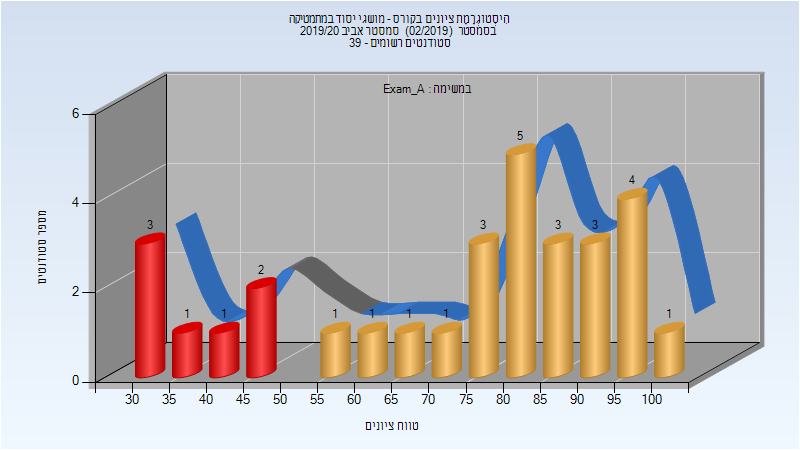
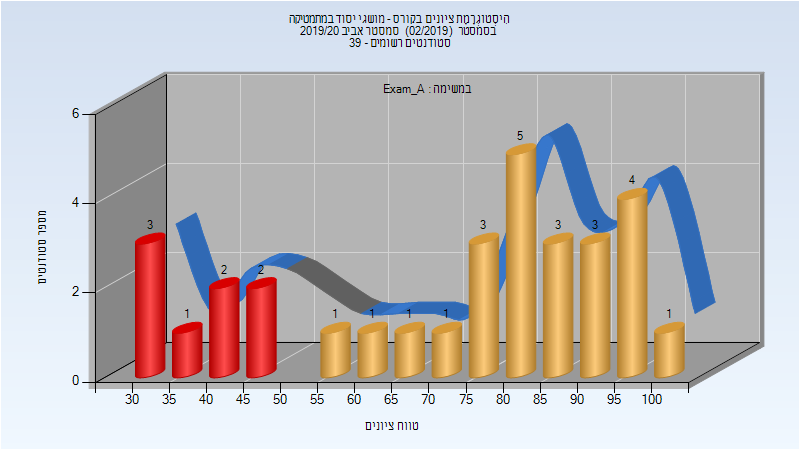
Deploy michael-maltsev/technion-histograms to github.com/michael-maltsev/technion-histograms.git:gh-pages

Changed region(s): [[0.25, 0.56, 0.4062, 0.7467]]

diff --git a/104002/index.html b/104002/index.html
@@ -209,13 +209,13 @@
 </thead>
 <tbody>
 <tr>
-<td>30</td>
-<td>23/7</td>
-<td>77</td>
+<td>31</td>
+<td>23/8</td>
+<td>74</td>
 <td>30</td>
 <td>100</td>
-<td>72.767</td>
-<td>80</td>
+<td>71.71</td>
+<td>78</td>
 </tr>
 </tbody>
 </table>
@@ -235,13 +235,13 @@
 </thead>
 <tbody>
 <tr>
-<td>30</td>
-<td>29/1</td>
-<td>97</td>
+<td>31</td>
+<td>29/2</td>
+<td>94</td>
 <td>33</td>
 <td>100</td>
-<td>78.9</td>
-<td>84</td>
+<td>78.097</td>
+<td>83</td>
 </tr>
 </tbody>
 </table>
@@ -261,13 +261,13 @@
 </thead>
 <tbody>
 <tr>
-<td>30</td>
-<td>29/1</td>
-<td>97</td>
-<td>33</td>
+<td>34</td>
+<td>31/3</td>
+<td>91</td>
+<td>9</td>
 <td>100</td>
-<td>78.9</td>
-<td>84</td>
+<td>74.765</td>
+<td>82.5</td>
 </tr>
 </tbody>
 </table>

diff --git a/104168/index.html b/104168/index.html
@@ -118,5 +118,24 @@
 </tr>
 </tbody>
 </table>
+<h2>חורף 2020-2021</h2>
+<table>
+<thead>
+<tr>
+<th>איש סגל</th>
+<th>תפקיד</th>
+</tr>
+</thead>
+<tbody>
+<tr>
+<td>חנבסקי מיכאל</td>
+<td>מרצה - אחראי מקצוע</td>
+</tr>
+<tr>
+<td>צורני אלעד</td>
+<td>מתרגל</td>
+</tr>
+</tbody>
+</table>
   </body>
 </html>

diff --git a/104002/README.md b/104002/README.md
@@ -61,7 +61,7 @@
 
 | סטודנטים | עברו/נכשלו | אחוז עוברים | ציון מינימלי | ציון מקסימלי | ממוצע | חציון |
 | ---- | ---- | ---- | ---- | ---- | ---- | ---- |
-| 30 | 23/7 | 77 | 30 | 100 | 72.767 | 80 |
+| 31 | 23/8 | 74 | 30 | 100 | 71.71 | 78 |
 
 ### סופי מועד א'
 
@@ -69,7 +69,7 @@
 
 | סטודנטים | עברו/נכשלו | אחוז עוברים | ציון מינימלי | ציון מקסימלי | ממוצע | חציון |
 | ---- | ---- | ---- | ---- | ---- | ---- | ---- |
-| 30 | 29/1 | 97 | 33 | 100 | 78.9 | 84 |
+| 31 | 29/2 | 94 | 33 | 100 | 78.097 | 83 |
 
 ### סופי
 
@@ -77,5 +77,5 @@
 
 | סטודנטים | עברו/נכשלו | אחוז עוברים | ציון מינימלי | ציון מקסימלי | ממוצע | חציון |
 | ---- | ---- | ---- | ---- | ---- | ---- | ---- |
-| 30 | 29/1 | 97 | 33 | 100 | 78.9 | 84 |
+| 34 | 31/3 | 91 | 9 | 100 | 74.765 | 82.5 |
 

diff --git a/104168/README.md b/104168/README.md
@@ -31,3 +31,10 @@
 | ---- | ---- | ---- | ---- | ---- | ---- | ---- |
 | 70 | 60/10 | 86 | 21 | 100 | 71.886 | 73.5 |
 
+## חורף 2020-2021
+
+| איש סגל | תפקיד |
+| ---- | ---- |
+| חנבסקי מיכאל | מרצה - אחראי מקצוע |
+| צורני אלעד | מתרגל |
+
